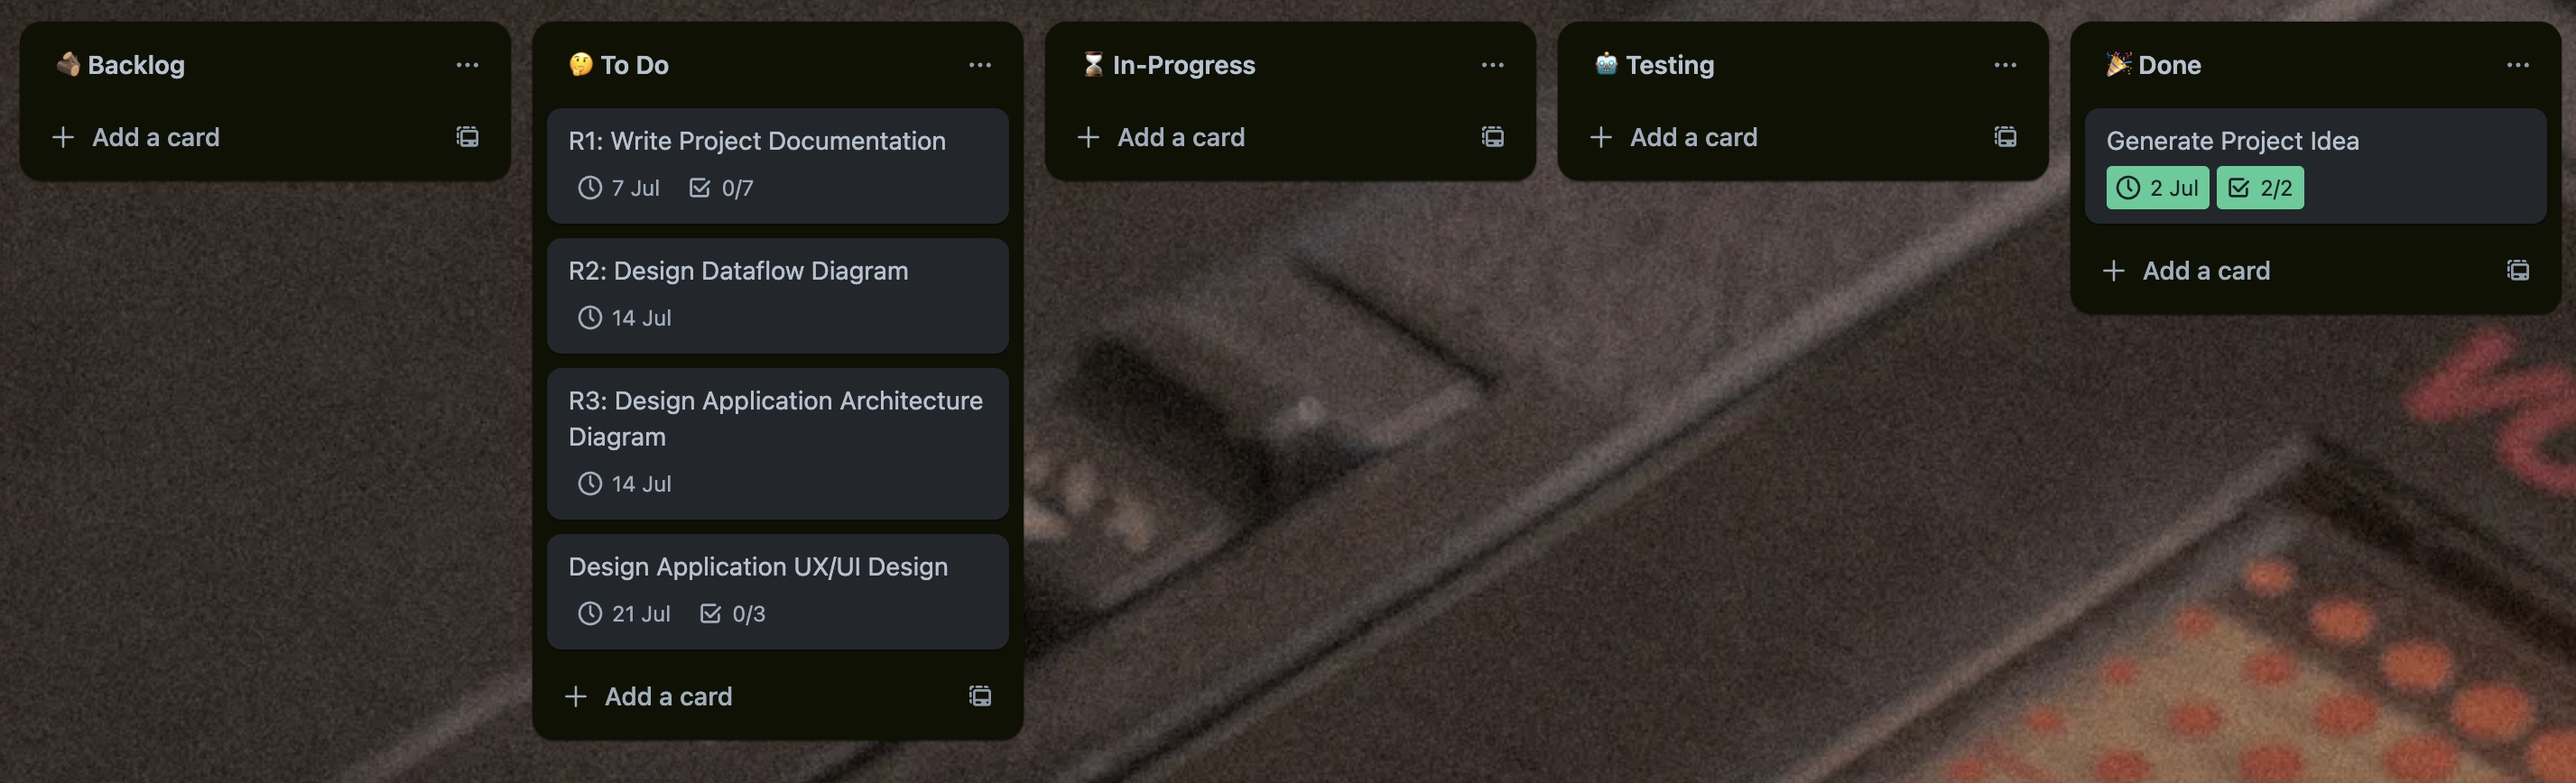
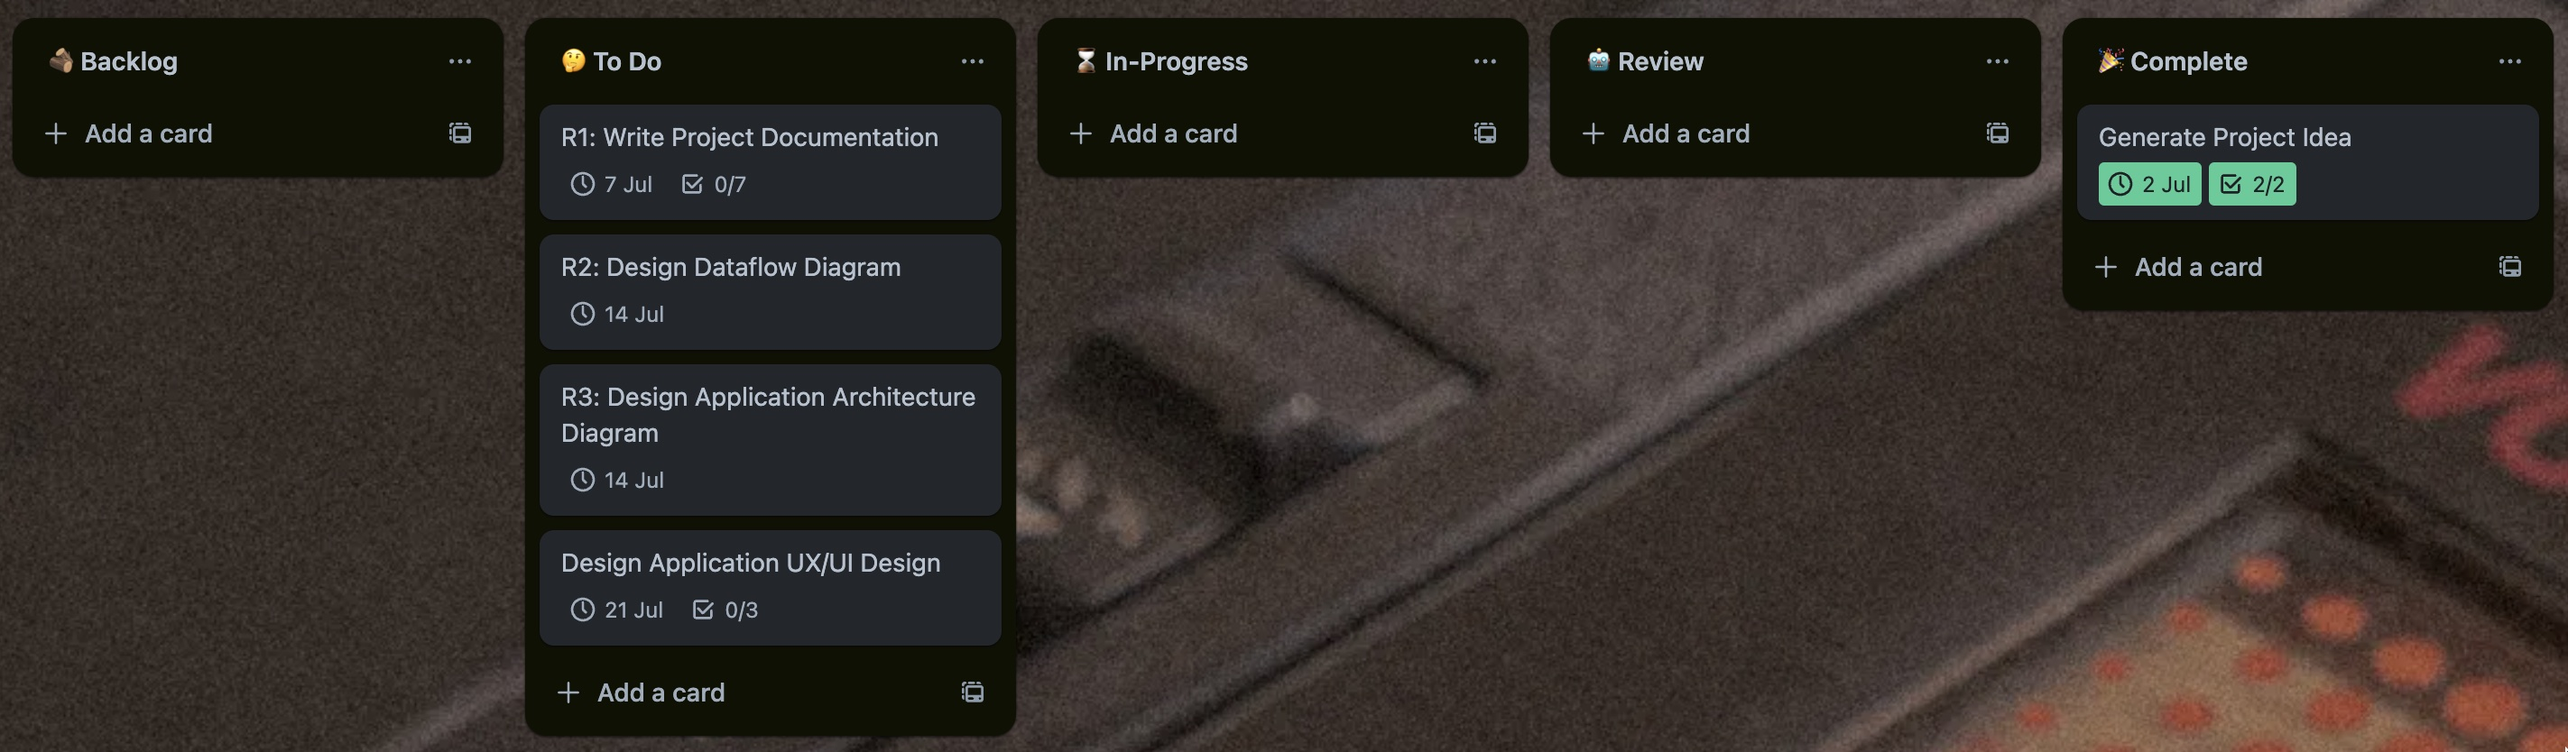
docs: Updated project documentation

diff --git a/README.md b/README.md
@@ -12,13 +12,55 @@
 
 ## 🚀 Purpose
 
-Lorem ipsum dolor sit amet consectetur adipisicing elit. Vitae culpa ipsum aliquam, adipisci ratione distinctio eos voluptates nulla mollitia excepturi quas ipsam, vero temporibus a nisi asperiores illum optio beatae?
+In today's fast-paced, digitalised world, mental health has become more crucial than ever. Young people, in particular, are facing unprecedented levels of stress, anxiety, and depression. The pressures of social media, academic demands, and societal expectations have contributed to a growing mental health crisis among the youth. 
+
+By providing a structured way to track and understand emotions, Memobanking aims to be a proactive platform in addressing these issues. It encourages self-awareness and emotional regulation, key components in maintaining mental health and preventing the escalation of mental illnesses. Whether for personal growth and mental health management, Memobanking offers users valuable tools to navigate and understand one’s emotional landscape.  Through personalised insights and the ability to share experiences, Memobanking not only aids individual users but also fosters a broader conversation about mental health, promoting understanding and support within the community.
 
 ## ⚙ Functionality
 
+1. **Emotion Logging**
+    
+    Users can log their emotions by selecting from categories like Joy, Anger, Sadness, Fear, and Disgust. They have the option to write a brief note or reason for their emotion.
+
+2. **Emotion History Log**
+    
+    Users can reflect back on their past emotion entries through a history log. Their emotion enteries can be categorised and filtered by date and emotion type for easy tracking and analysis.
+
+3. **Graphical Data Visualisation**
+    
+    Users can track their emotional trends over time using graphs, identifying patterns and fluctuations.
+
+4. **User Profiles**
+
+    Users can choose to share their emotion history log and graphs publicly. They have options to control over what information is shared, such as hiding or showing reasons behind their emotions.
+ 
+
 ## 🎯 Target Audience
 
+1. **Individuals with Mental Health Concerns**
+
+    People dealing with anxiety, depression, or other mental health issues would find the app valuable for understanding their emotion patterns and indentifying potential triggers. 
+
+2. **Therapy Clients**
+
+    People who are already seeing therapists or counselors can use the app to track their progress and share data with their mental health professionals.
+
+2. **Social Media Users**
+
+    People who are active on social media might enjoy the feature that allows them to share their emotional data publicly, adding a personal and reflective aspect to their online presence.
+
+
+
 ## 📚 Tech Stack
+
+**Frontend:**
+  - **Framework:** React.js
+  - **Libraries:** [Chart.js](https://www.npmjs.com/package/chart.js?activeTab=readme), [Ant Design](https://www.npmjs.com/package/antd)
+
+**Backend:**
+  - **Framework:** Node.js with Express.js
+  - **Libraries:** [Dotenv](https://www.npmjs.com/package/dotenv), [BcryptJS](https://www.npmjs.com/package/bcryptjsn), [JSON Web Tokens](https://www.npmjs.com/package/jsonwebtoken)
+  - **Database:** MongoDB
 
 ## 📡 Dataflow Diagram
 
@@ -28,10 +70,10 @@ Lorem ipsum dolor sit amet consectetur adipisicing elit. Vitae culpa ipsum aliqu
 
 ## 📝 Project Development Log
 
-In this project, I have opted to use a Kanban workflow as my method of planning and tracking the development of my application. Each column represents a different phase of development. Cards flow from one column to the next as they progress towards completion. The workflow involves the following phases: Backlog, To-Do, In-Progress, Testing and Done.
+In this project, I have opted to use a Kanban workflow as my method of planning and tracking the development of my application. Each column represents a different phase of development. Cards flow from one column to the next as they progress towards completion. The workflow involves the following phases: Backlog, To-Do, In-Progress, Review and Completed.
 
 
-**10-03-2024:**
+**04-07-2024:**
 
 <img src="./docs/kanban/04-07-2024.jpeg">
 
@@ -46,3 +88,7 @@ In this project, I have opted to use a Kanban workflow as my method of planning 
 **Design Application UX/UI Design Checklist**
 
 <img src="./docs/checklists/design_uxui_design.png" width="500">
+
+**05-07-2024:**
+
+<img src="./docs/kanban/05-07-2024.jpeg">
